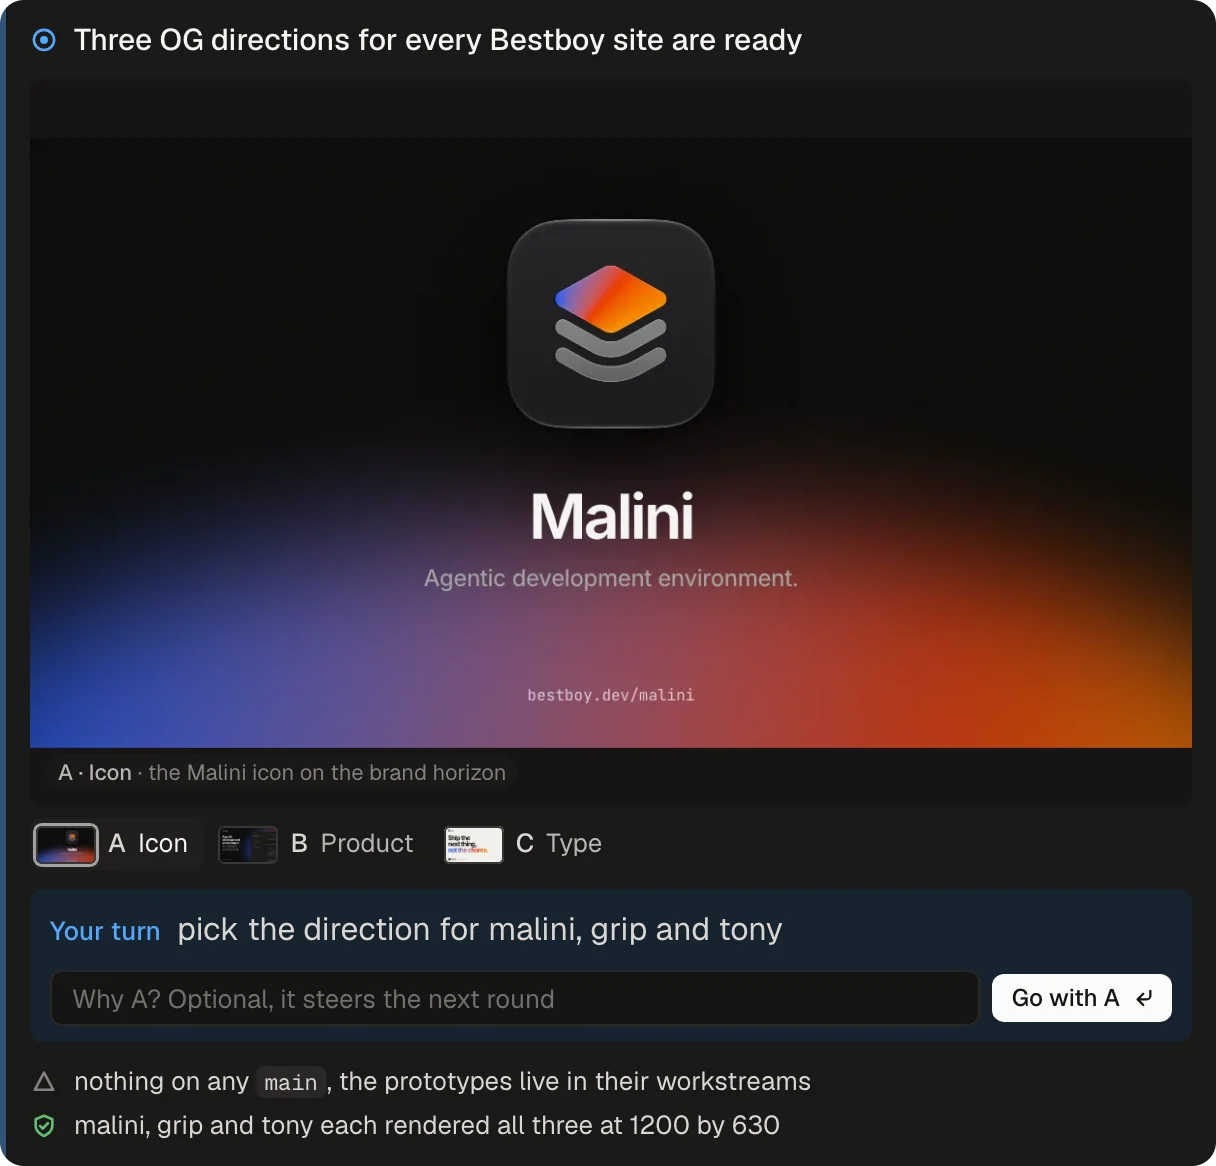
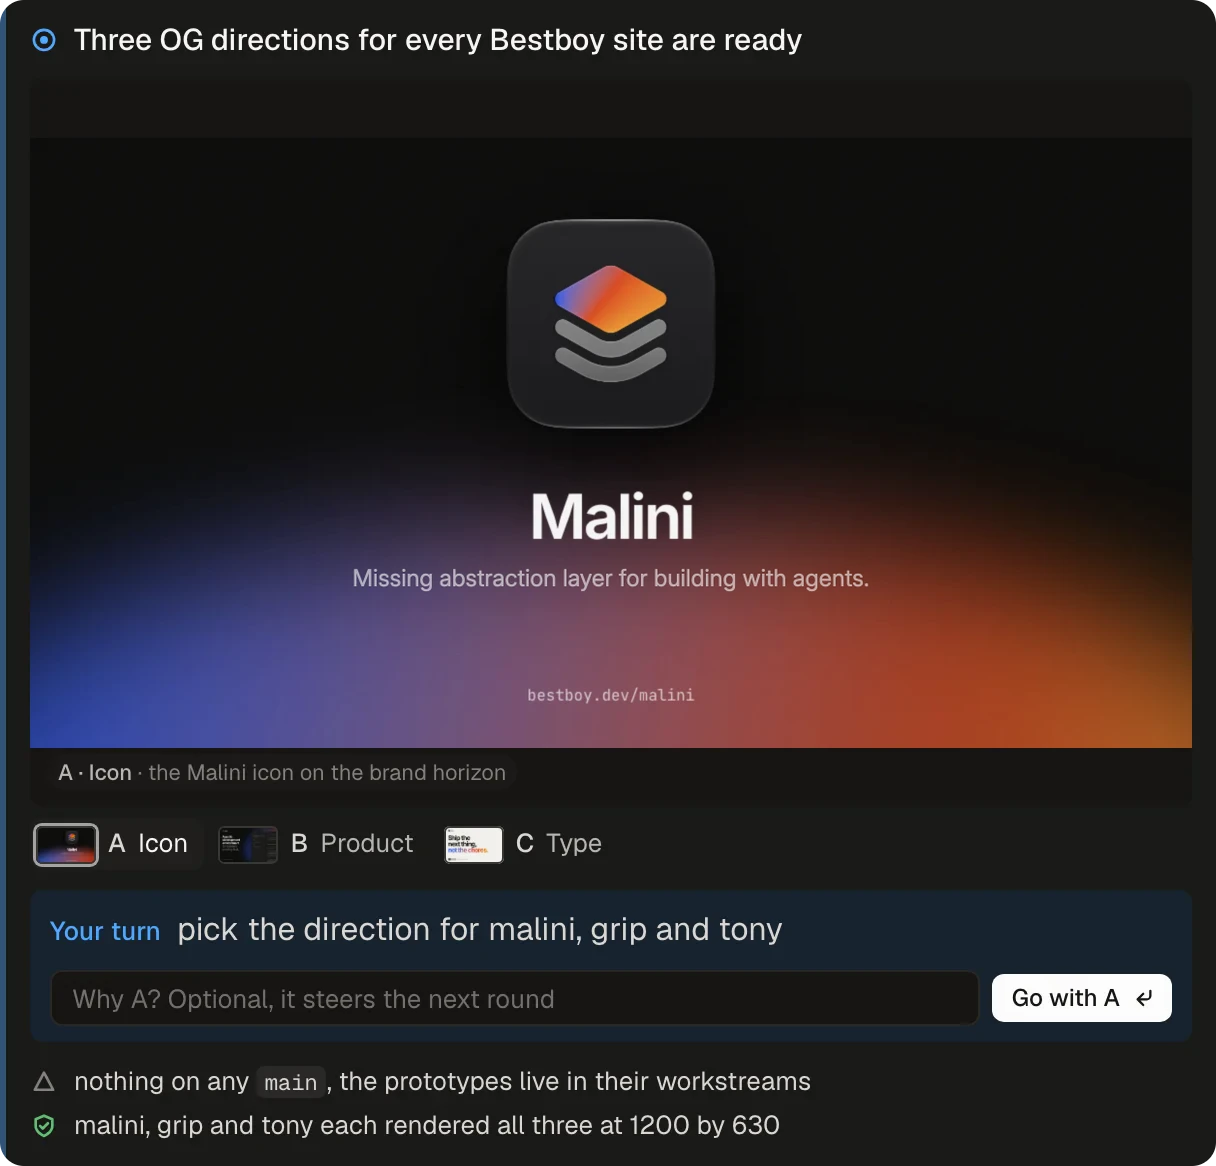
docs(site): lead with the missing abstraction layer line

Changed region(s): [[0.2812, 0.494, 0.7188, 0.5249], [0.875, 0.6175, 1.0, 0.6484], [0.4688, 0.2161, 0.5625, 0.2779]]

diff --git a/apps/site/src/lib/links.ts b/apps/site/src/lib/links.ts
@@ -3,7 +3,7 @@ import { GITHUB_URL } from './urls';
 
 export const SITE_URL = 'https://bestboy.dev/malini';
 export const SITE_DESCRIPTION =
-	'Malini is a free, open source agentic development environment for builders moving fast. Run as many agents as you want. Malini handles the chores, so you only review pull requests and the gains compound.';
+	'Malini is the missing abstraction layer for building with agents, free and open source. Run as many agents as you want. Malini handles the chores, so you only review pull requests and the gains compound.';
 
 export const DOWNLOAD_URL =
 	'https://github.com/bestboyhq/malini/releases/latest/download/malini-arm64.dmg';

diff --git a/apps/site/src/routes/(site)/+page.svelte b/apps/site/src/routes/(site)/+page.svelte
@@ -204,7 +204,11 @@
 	usual endings: pulling the rug on users, or <SoldCard word="selling" />.
 {/snippet}
 
-<Head title="Malini: agentic development environment" description={SITE_DESCRIPTION} path="" />
+<Head
+	title="Malini: missing abstraction layer for building with agents"
+	description={SITE_DESCRIPTION}
+	path=""
+/>
 
 <Hero>
 	<p class="lede">

diff --git a/apps/site/content/index.md b/apps/site/content/index.md
@@ -1,9 +1,9 @@
 ---
 title: What Malini is
-description: Malini is a free, open source agentic development environment for builders moving fast. Run as many agents as you want. Malini handles the chores, so you only review pull requests and the gains compound.
+description: Malini is the missing abstraction layer for building with agents, free and open source. Run as many agents as you want. Malini handles the chores, so you only review pull requests and the gains compound.
 ---
 
-Malini is agentic development environment for builders moving fast, as a Mac app.
+Malini is the missing abstraction layer for building with agents, as a Mac app.
 Each task you start is a **workstream**: its own git worktree, its own branch, and its own agent chats.
 Agents write the code, and Malini owns git: it commits, opens the pull request, fixes red checks, answers reviews, and merges.
 It runs on Claude Code today.
